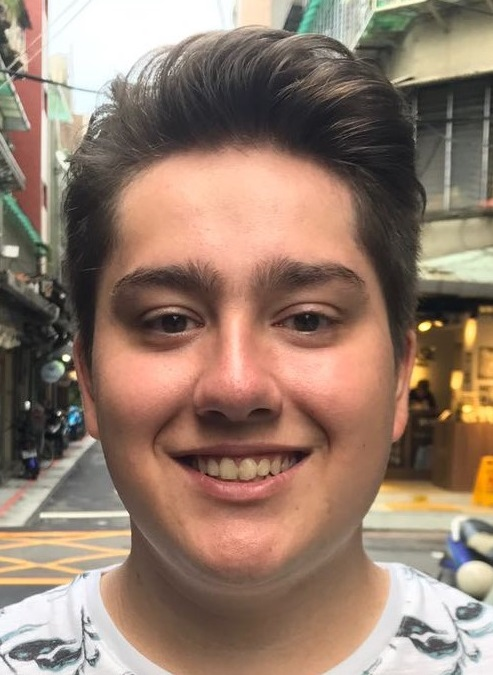
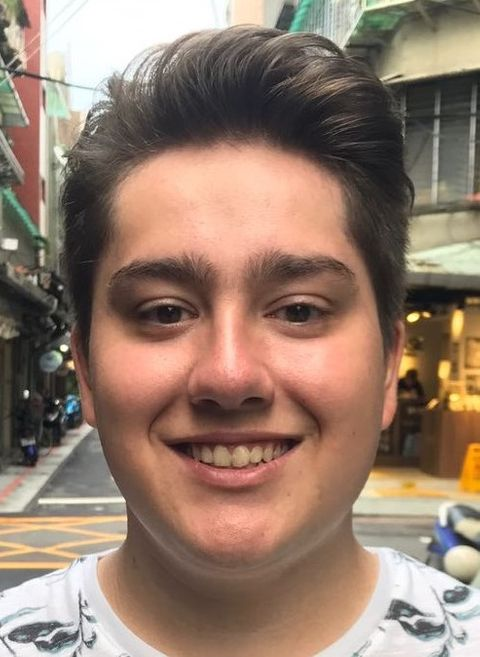
Deploy rtc.diagnijmegen.nl to github.com/diagnijmegen/website-rtc.git:master

diff --git a/index.html b/index.html
@@ -200,7 +200,7 @@
                 </div>
                 <div class="col-md-6">
                     <figure class="figure">
-                      <img alt="Automated tumor detection" class="figure-img" src="https://rtc.diagnijmegen.nl/images/general/rtc.jpg">
+                      <img alt="Automated tumor detection" class="figure-img" src="https://rtc.diagnijmegen.nl/images/general/rtc-2.jpg">
                       <figcaption class="figure-caption text-right"></figcaption>
                     </figure>
                 </div>
